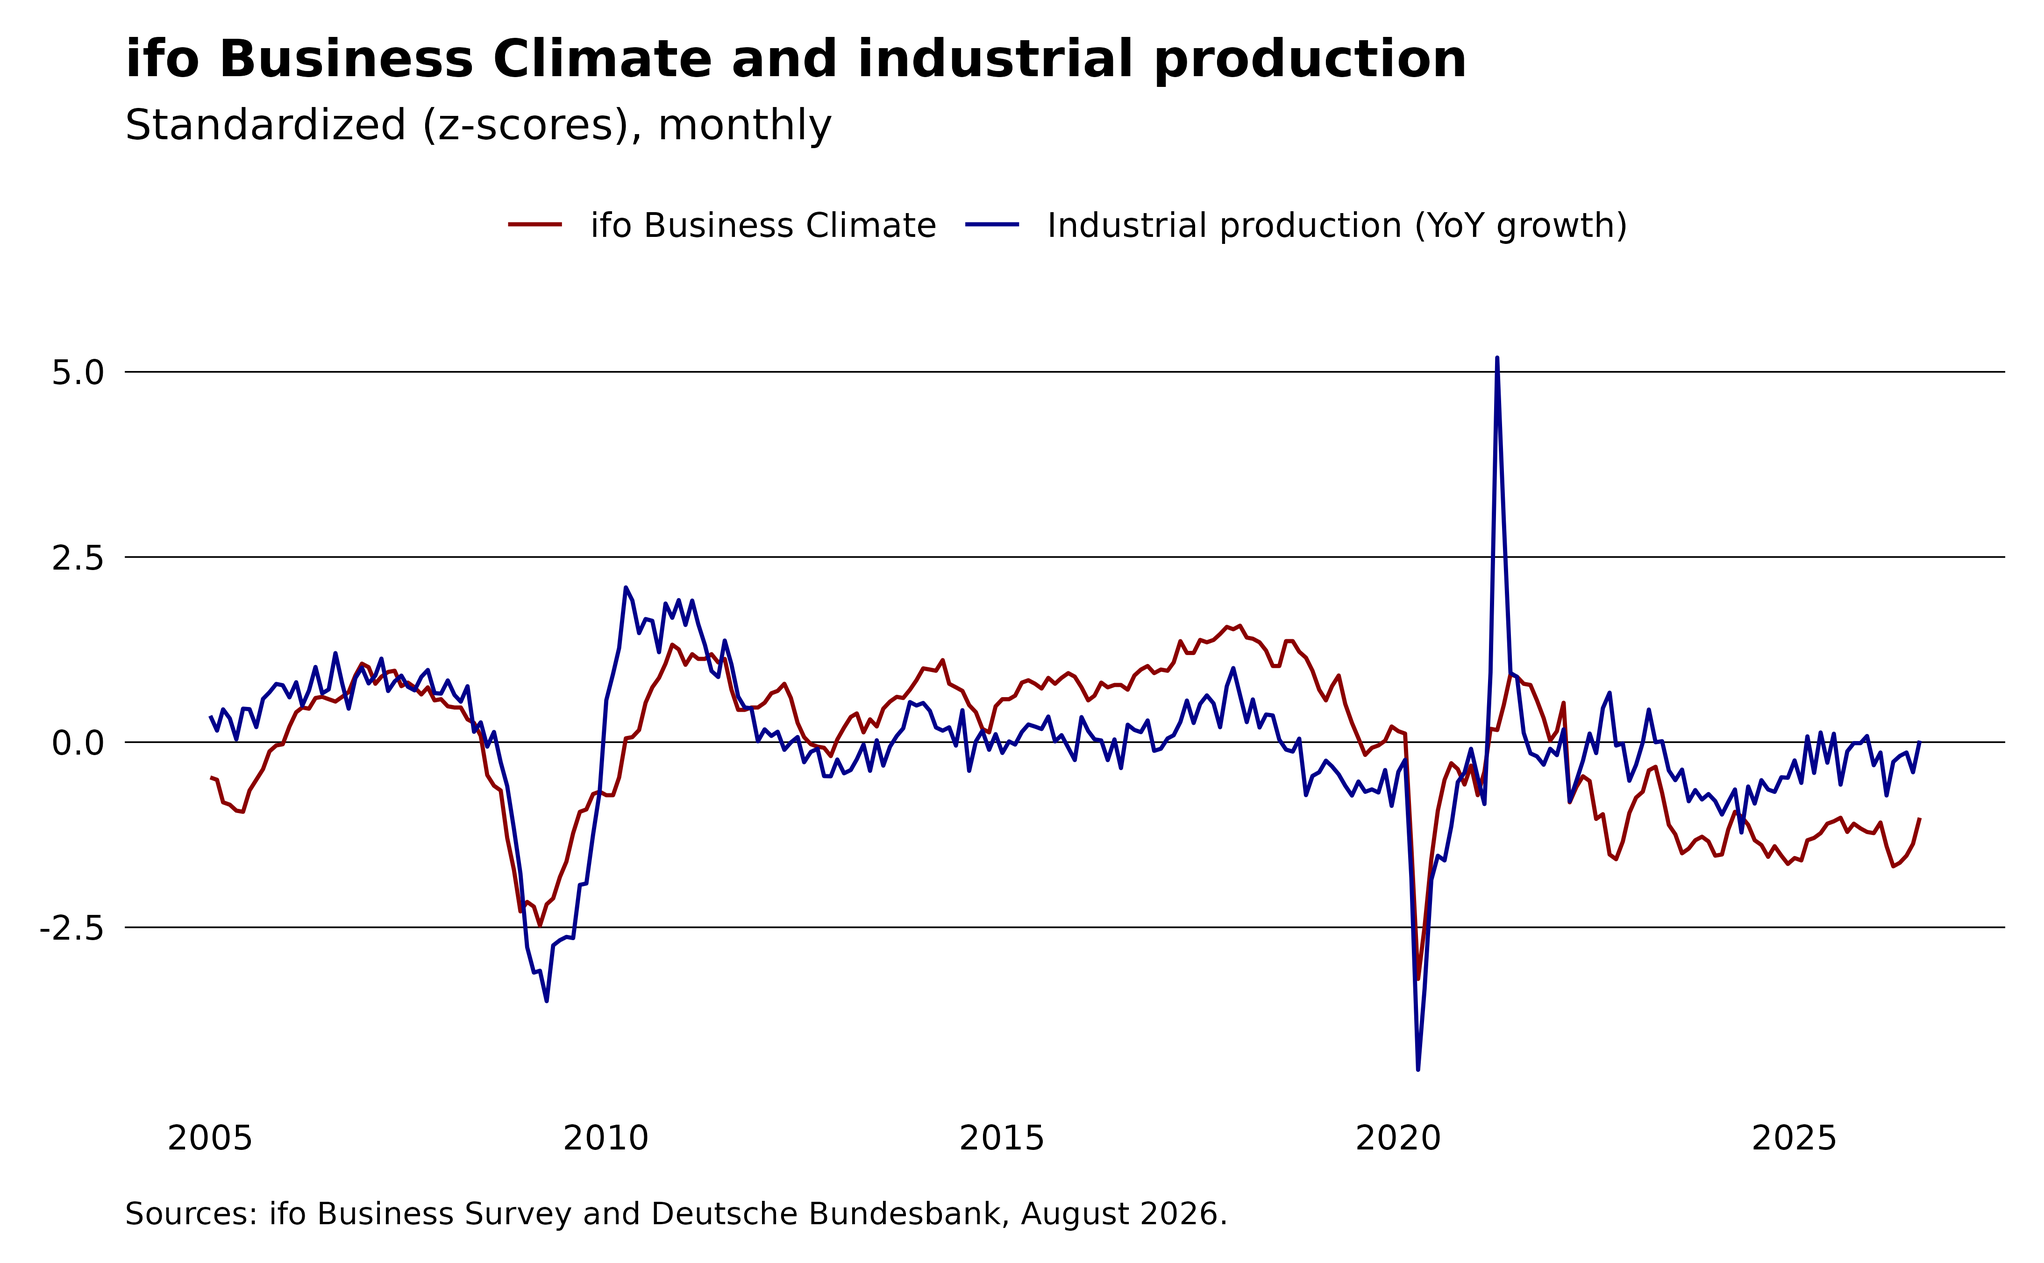
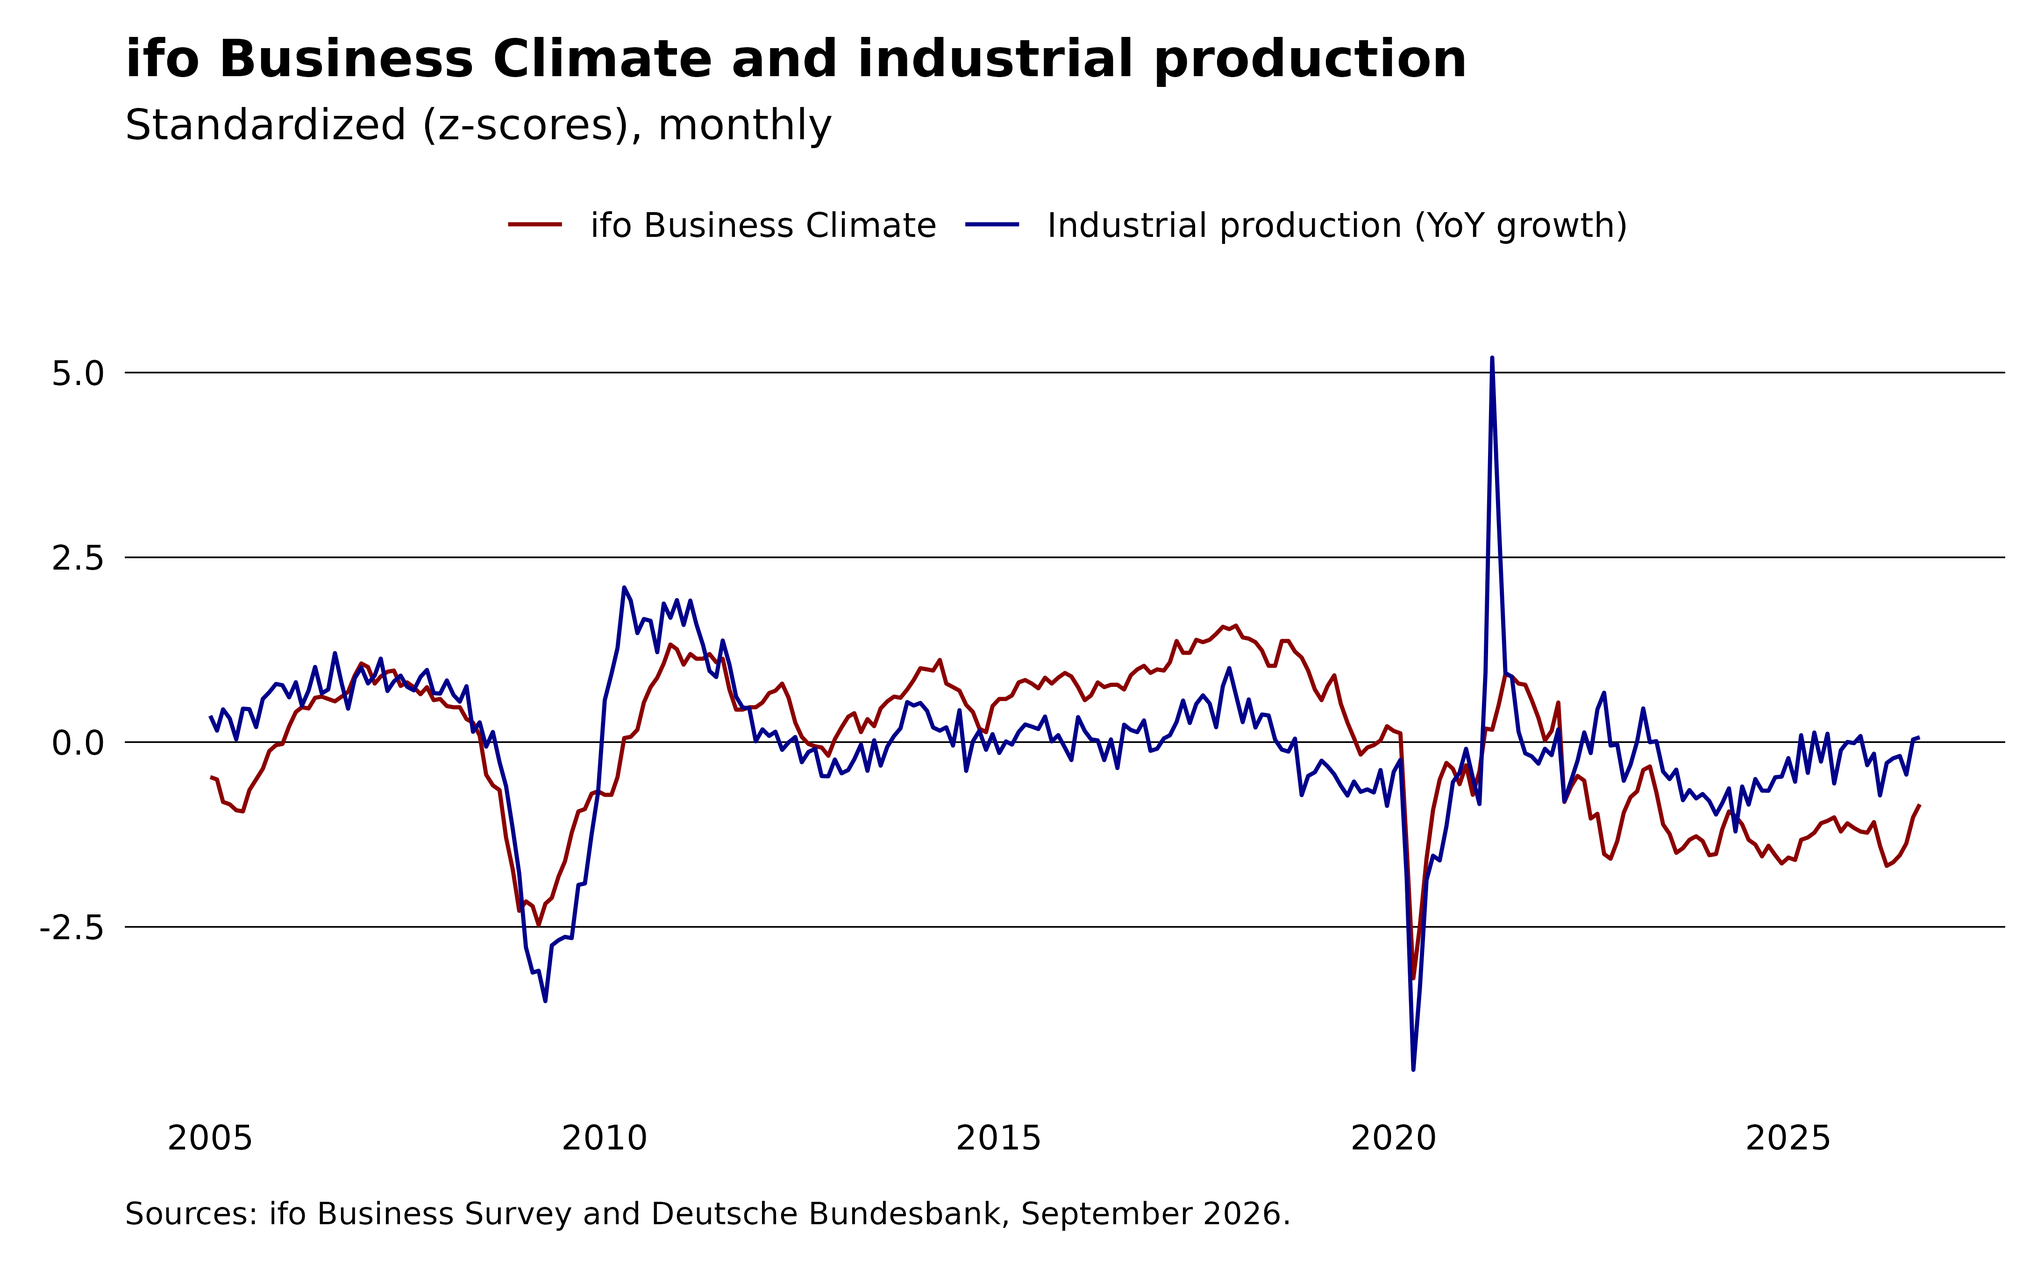
Deploying to gh-pages from @ m-muecke/ifo@dab7446699d8f623ae3c482254d5785b81348a27 🚀

diff --git a/articles/leading-indicator.html b/articles/leading-indicator.html
@@ -156,7 +156,7 @@ Hüfner and Schröder as their measure of economic activity.</p>
 <span><span class="va">activity</span> <span class="op">&lt;-</span> <span class="va">survey</span><span class="op">[</span><span class="va">ip</span>, on <span class="op">=</span> <span class="st">"yearmonth"</span>, nomatch <span class="op">=</span> <span class="fl">0L</span><span class="op">]</span></span></code></pre></div>
 <p>The production series reaches back to 1991, but the ifo index for
 Germany as a whole starts in January 2005, so the overlapping sample
-runs from January 2005 to August 2026 (260 months).</p>
+runs from January 2005 to September 2026 (261 months).</p>
 </div>
 <div class="section level3">
 <h3 id="criterion-1-co-movement">Criterion 1: co-movement<a class="anchor" aria-label="anchor" href="#criterion-1-co-movement"></a>
@@ -189,7 +189,7 @@ times, and the contemporaneous correlation is moderate rather than
 tight:</p>
 <div class="sourceCode" id="cb5"><pre class="downlit sourceCode r">
 <code class="sourceCode R"><span><span class="fu"><a href="https://rdrr.io/r/stats/cor.html" class="external-link">cor</a></span><span class="op">(</span><span class="va">activity</span><span class="op">$</span><span class="va">climate</span>, <span class="va">activity</span><span class="op">$</span><span class="va">ip_growth</span><span class="op">)</span></span>
-<span><span class="co">#&gt; [1] 0.6192757</span></span></code></pre></div>
+<span><span class="co">#&gt; [1] 0.6182059</span></span></code></pre></div>
 <p>To examine the lead-lag structure, we use the cross-correlation
 function. Negative lags describe the ifo index <em>leading</em>
 production growth. We separate the headline climate index into the
@@ -248,11 +248,11 @@ theory suggests:</p>
 <code class="sourceCode R"><span><span class="va">xc</span><span class="op">[</span>, <span class="va">.SD</span><span class="op">[</span><span class="fu"><a href="https://rdrr.io/r/base/which.min.html" class="external-link">which.max</a></span><span class="op">(</span><span class="va">correlation</span><span class="op">)</span><span class="op">]</span>, by <span class="op">=</span> <span class="va">component</span><span class="op">]</span></span>
 <span><span class="co">#&gt;      component   lag correlation</span></span>
 <span><span class="co">#&gt;         &lt;char&gt; &lt;int&gt;       &lt;num&gt;</span></span>
-<span><span class="co">#&gt; 1:   situation     3   0.5681800</span></span>
-<span><span class="co">#&gt; 2: expectation    -1   0.6118295</span></span>
-<span><span class="co">#&gt; 3:     climate     0   0.6192757</span></span></code></pre></div>
+<span><span class="co">#&gt; 1:   situation     2   0.5676193</span></span>
+<span><span class="co">#&gt; 2: expectation    -1   0.6110709</span></span>
+<span><span class="co">#&gt; 3:     climate     0   0.6182059</span></span></code></pre></div>
 <p>The peak correlation occurs at lag -1 for expectations, 0 for the
-climate index, and 3 for the situation assessment. Because negative lags
+climate index, and 2 for the situation assessment. Because negative lags
 indicate a lead over production, only expectations peak ahead of
 production, and the lead is short: the correlation is nearly flat
 between lag -1 and lag 0. A formal test can determine whether the lead
@@ -282,8 +282,8 @@ test results are the same for any order between them.</p>
 <span><span class="co">#&gt; Model 1: ip_growth ~ Lags(ip_growth, 1:3) + Lags(climate, 1:3)</span></span>
 <span><span class="co">#&gt; Model 2: ip_growth ~ Lags(ip_growth, 1:3)</span></span>
 <span><span class="co">#&gt;   Res.Df Df      F    Pr(&gt;F)    </span></span>
-<span><span class="co">#&gt; 1    250                        </span></span>
-<span><span class="co">#&gt; 2    253 -3 7.5172 7.771e-05 ***</span></span>
+<span><span class="co">#&gt; 1    251                        </span></span>
+<span><span class="co">#&gt; 2    254 -3 7.5331 7.597e-05 ***</span></span>
 <span><span class="co">#&gt; ---</span></span>
 <span><span class="co">#&gt; Signif. codes:  0 '***' 0.001 '**' 0.01 '*' 0.05 '.' 0.1 ' ' 1</span></span>
 <span><span class="va">reverse</span></span>
@@ -292,10 +292,10 @@ test results are the same for any order between them.</p>
 <span><span class="co">#&gt; Model 1: climate ~ Lags(climate, 1:3) + Lags(ip_growth, 1:3)</span></span>
 <span><span class="co">#&gt; Model 2: climate ~ Lags(climate, 1:3)</span></span>
 <span><span class="co">#&gt;   Res.Df Df      F Pr(&gt;F)</span></span>
-<span><span class="co">#&gt; 1    250                 </span></span>
-<span><span class="co">#&gt; 2    253 -3 0.3561 0.7847</span></span></code></pre></div>
+<span><span class="co">#&gt; 1    251                 </span></span>
+<span><span class="co">#&gt; 2    254 -3 0.3644 0.7788</span></span></code></pre></div>
 <p>The predictive relationship is one-directional. Lags of the ifo
-climate improve the production model (p = 0.000078), while lags of
+climate improve the production model (p = 0.000076), while lags of
 production do not improve the climate model (p = 0.78).</p>
 <p>Consistent with the cross-correlation, the forward-looking
 expectations component gives a slightly stronger signal than the
@@ -307,8 +307,8 @@ headline climate index.</p>
 <span><span class="co">#&gt; Model 1: ip_growth ~ Lags(ip_growth, 1:3) + Lags(expectation, 1:3)</span></span>
 <span><span class="co">#&gt; Model 2: ip_growth ~ Lags(ip_growth, 1:3)</span></span>
 <span><span class="co">#&gt;   Res.Df Df      F    Pr(&gt;F)    </span></span>
-<span><span class="co">#&gt; 1    250                        </span></span>
-<span><span class="co">#&gt; 2    253 -3 8.4518 2.271e-05 ***</span></span>
+<span><span class="co">#&gt; 1    251                        </span></span>
+<span><span class="co">#&gt; 2    254 -3 8.4985 2.131e-05 ***</span></span>
 <span><span class="co">#&gt; ---</span></span>
 <span><span class="co">#&gt; Signif. codes:  0 '***' 0.001 '**' 0.01 '*' 0.05 '.' 0.1 ' ' 1</span></span></code></pre></div>
 </div>
@@ -347,11 +347,11 @@ accuracy.</p>
 <span><span class="op">)</span></span>
 <span><span class="co">#&gt;          model    adj_r2 rmse_in_sample</span></span>
 <span><span class="co">#&gt;         &lt;char&gt;     &lt;num&gt;          &lt;num&gt;</span></span>
-<span><span class="co">#&gt; 1:       AR(3) 0.7479700       3.442022</span></span>
-<span><span class="co">#&gt; 2: AR(3) + ifo 0.7660495       3.296547</span></span></code></pre></div>
+<span><span class="co">#&gt; 1:       AR(3) 0.7481182       3.433900</span></span>
+<span><span class="co">#&gt; 2: AR(3) + ifo 0.7661618       3.289024</span></span></code></pre></div>
 <p>Adding the climate index raises adjusted R² from 0.748 to 0.766 and
-lowers in-sample RMSE from 3.44 to 3.30. The nested-model F test rejects
-the three climate coefficients being jointly zero (p = 0.000078). This
+lowers in-sample RMSE from 3.43 to 3.29. The nested-model F test rejects
+the three climate coefficients being jointly zero (p = 0.000076). This
 is the same test used in the forward Granger comparison above:</p>
 <div class="sourceCode" id="cb11"><pre class="downlit sourceCode r">
 <code class="sourceCode R"><span><span class="fu"><a href="https://rdrr.io/r/stats/anova.html" class="external-link">anova</a></span><span class="op">(</span><span class="va">fit_ar</span>, <span class="va">fit_ar_ifo</span><span class="op">)</span></span>
@@ -360,8 +360,8 @@ is the same test used in the forward Granger comparison above:</p>
 <span><span class="co">#&gt; Model 1: ip_growth ~ g1 + g2 + g3</span></span>
 <span><span class="co">#&gt; Model 2: ip_growth ~ g1 + g2 + g3 + c1 + c2 + c3</span></span>
 <span><span class="co">#&gt;   Res.Df    RSS Df Sum of Sq      F    Pr(&gt;F)    </span></span>
-<span><span class="co">#&gt; 1    253 3044.8                                  </span></span>
-<span><span class="co">#&gt; 2    250 2792.9  3    251.94 7.5172 7.771e-05 ***</span></span>
+<span><span class="co">#&gt; 1    254 3042.2                                  </span></span>
+<span><span class="co">#&gt; 2    251 2791.0  3    251.29 7.5331 7.597e-05 ***</span></span>
 <span><span class="co">#&gt; ---</span></span>
 <span><span class="co">#&gt; Signif. codes:  0 '***' 0.001 '**' 0.01 '*' 0.05 '.' 0.1 ' ' 1</span></span></code></pre></div>
 </div>
@@ -484,19 +484,19 @@ monthly and predict the next observation.</p>
 <span><span class="co">#&gt;                        &lt;char&gt;         &lt;char&gt;  &lt;int&gt; &lt;num&gt;               &lt;num&gt;</span></span>
 <span><span class="co">#&gt; 1:                      AR(3)         levels    117  4.83                 0.0</span></span>
 <span><span class="co">#&gt; 2:            Germany climate         levels    117  4.80                 0.5</span></span>
-<span><span class="co">#&gt; 3:            Germany climate    differences    117  4.56                 5.5</span></span>
+<span><span class="co">#&gt; 3:            Germany climate    differences    117  4.56                 5.4</span></span>
 <span><span class="co">#&gt; 4:          Germany situation         levels    117  4.88                -1.0</span></span>
 <span><span class="co">#&gt; 5:       Germany expectations         levels    117  4.79                 0.9</span></span>
 <span><span class="co">#&gt; 6:       Germany expectations    differences    117  4.68                 3.0</span></span>
-<span><span class="co">#&gt; 7: Manufacturing expectations         levels    117  4.58                 5.2</span></span></code></pre></div>
+<span><span class="co">#&gt; 7: Manufacturing expectations         levels    117  4.58                 5.1</span></span></code></pre></div>
 <p>Across 117 forecasts, the survey series in levels repeat the ranking
 from the lead-lag analysis. Germany-wide expectations lower RMSE by 0.9%
 relative to the AR benchmark and the climate balance by 0.5%, while the
 situation balance offers no improvement (-1%). Manufacturing
-expectations lower RMSE by 5.2%, so the closer sectoral match appears to
+expectations lower RMSE by 5.1%, so the closer sectoral match appears to
 matter. Matching the transformation changes this picture. As
 twelve-month differences, the Germany-wide climate balance lowers RMSE
-by 5.5%, on par with manufacturing expectations in levels at 5.2%.
+by 5.4%, on par with manufacturing expectations in levels at 5.1%.
 Germany-wide expectations improve to 3%. The differenced headline series
 therefore produces a similar full-sample RMSE improvement to
 manufacturing expectations. This remains a pseudo-out-of-sample exercise
@@ -540,10 +540,10 @@ survey model improve on the benchmark?</p>
 <span><span class="co">#&gt;                         model transformation cw_statistic p_value</span></span>
 <span><span class="co">#&gt;                        &lt;char&gt;         &lt;char&gt;        &lt;num&gt;   &lt;num&gt;</span></span>
 <span><span class="co">#&gt; 1:            Germany climate         levels         0.98    0.16</span></span>
-<span><span class="co">#&gt; 2:            Germany climate    differences         2.05    0.02</span></span>
+<span><span class="co">#&gt; 2:            Germany climate    differences         2.03    0.02</span></span>
 <span><span class="co">#&gt; 3:          Germany situation         levels         0.53    0.30</span></span>
 <span><span class="co">#&gt; 4:       Germany expectations         levels         1.28    0.10</span></span>
-<span><span class="co">#&gt; 5:       Germany expectations    differences         1.68    0.05</span></span>
+<span><span class="co">#&gt; 5:       Germany expectations    differences         1.67    0.05</span></span>
 <span><span class="co">#&gt; 6: Manufacturing expectations         levels         1.90    0.03</span></span></code></pre></div>
 <p>In levels, only manufacturing expectations clear the 5% level (p =
 0.03). Germany-wide expectations are borderline (p = 0.10), and the

diff --git a/articles/leading-indicator.md b/articles/leading-indicator.md
@@ -92,7 +92,7 @@ activity <- survey[ip, on = "yearmonth", nomatch = 0L]
 
 The production series reaches back to 1991, but the ifo index for
 Germany as a whole starts in January 2005, so the overlapping sample
-runs from January 2005 to August 2026 (260 months).
+runs from January 2005 to September 2026 (261 months).
 
 ### Criterion 1: co-movement
 
@@ -130,7 +130,7 @@ and the contemporaneous correlation is moderate rather than tight:
 ``` r
 
 cor(activity$climate, activity$ip_growth)
-#> [1] 0.6192757
+#> [1] 0.6182059
 ```
 
 To examine the lead-lag structure, we use the cross-correlation
@@ -197,13 +197,13 @@ theory suggests:
 xc[, .SD[which.max(correlation)], by = component]
 #>      component   lag correlation
 #>         <char> <int>       <num>
-#> 1:   situation     3   0.5681800
-#> 2: expectation    -1   0.6118295
-#> 3:     climate     0   0.6192757
+#> 1:   situation     2   0.5676193
+#> 2: expectation    -1   0.6110709
+#> 3:     climate     0   0.6182059
 ```
 
 The peak correlation occurs at lag -1 for expectations, 0 for the
-climate index, and 3 for the situation assessment. Because negative lags
+climate index, and 2 for the situation assessment. Because negative lags
 indicate a lead over production, only expectations peak ahead of
 production, and the lead is short: the correlation is nearly flat
 between lag -1 and lag 0. A formal test can determine whether the lead
@@ -235,8 +235,8 @@ forward
 #> Model 1: ip_growth ~ Lags(ip_growth, 1:3) + Lags(climate, 1:3)
 #> Model 2: ip_growth ~ Lags(ip_growth, 1:3)
 #>   Res.Df Df      F    Pr(>F)    
-#> 1    250                        
-#> 2    253 -3 7.5172 7.771e-05 ***
+#> 1    251                        
+#> 2    254 -3 7.5331 7.597e-05 ***
 #> ---
 #> Signif. codes:  0 '***' 0.001 '**' 0.01 '*' 0.05 '.' 0.1 ' ' 1
 reverse
@@ -245,12 +245,12 @@ reverse
 #> Model 1: climate ~ Lags(climate, 1:3) + Lags(ip_growth, 1:3)
 #> Model 2: climate ~ Lags(climate, 1:3)
 #>   Res.Df Df      F Pr(>F)
-#> 1    250                 
-#> 2    253 -3 0.3561 0.7847
+#> 1    251                 
+#> 2    254 -3 0.3644 0.7788
 ```
 
 The predictive relationship is one-directional. Lags of the ifo climate
-improve the production model (p = 0.000078), while lags of production do
+improve the production model (p = 0.000076), while lags of production do
 not improve the climate model (p = 0.78).
 
 Consistent with the cross-correlation, the forward-looking expectations
@@ -265,8 +265,8 @@ lmtest::grangertest(ip_growth ~ expectation, order = 3L, data = activity)
 #> Model 1: ip_growth ~ Lags(ip_growth, 1:3) + Lags(expectation, 1:3)
 #> Model 2: ip_growth ~ Lags(ip_growth, 1:3)
 #>   Res.Df Df      F    Pr(>F)    
-#> 1    250                        
-#> 2    253 -3 8.4518 2.271e-05 ***
+#> 1    251                        
+#> 2    254 -3 8.4985 2.131e-05 ***
 #> ---
 #> Signif. codes:  0 '***' 0.001 '**' 0.01 '*' 0.05 '.' 0.1 ' ' 1
 ```
@@ -307,13 +307,13 @@ data.table(
 )
 #>          model    adj_r2 rmse_in_sample
 #>         <char>     <num>          <num>
-#> 1:       AR(3) 0.7479700       3.442022
-#> 2: AR(3) + ifo 0.7660495       3.296547
+#> 1:       AR(3) 0.7481182       3.433900
+#> 2: AR(3) + ifo 0.7661618       3.289024
 ```
 
 Adding the climate index raises adjusted R² from 0.748 to 0.766 and
-lowers in-sample RMSE from 3.44 to 3.30. The nested-model F test rejects
-the three climate coefficients being jointly zero (p = 0.000078). This
+lowers in-sample RMSE from 3.43 to 3.29. The nested-model F test rejects
+the three climate coefficients being jointly zero (p = 0.000076). This
 is the same test used in the forward Granger comparison above:
 
 ``` r
@@ -324,8 +324,8 @@ anova(fit_ar, fit_ar_ifo)
 #> Model 1: ip_growth ~ g1 + g2 + g3
 #> Model 2: ip_growth ~ g1 + g2 + g3 + c1 + c2 + c3
 #>   Res.Df    RSS Df Sum of Sq      F    Pr(>F)    
-#> 1    253 3044.8                                  
-#> 2    250 2792.9  3    251.94 7.5172 7.771e-05 ***
+#> 1    254 3042.2                                  
+#> 2    251 2791.0  3    251.29 7.5331 7.597e-05 ***
 #> ---
 #> Signif. codes:  0 '***' 0.001 '**' 0.01 '*' 0.05 '.' 0.1 ' ' 1
 ```
@@ -451,21 +451,21 @@ forecast_scores[]
 #>                        <char>         <char>  <int> <num>               <num>
 #> 1:                      AR(3)         levels    117  4.83                 0.0
 #> 2:            Germany climate         levels    117  4.80                 0.5
-#> 3:            Germany climate    differences    117  4.56                 5.5
+#> 3:            Germany climate    differences    117  4.56                 5.4
 #> 4:          Germany situation         levels    117  4.88                -1.0
 #> 5:       Germany expectations         levels    117  4.79                 0.9
 #> 6:       Germany expectations    differences    117  4.68                 3.0
-#> 7: Manufacturing expectations         levels    117  4.58                 5.2
+#> 7: Manufacturing expectations         levels    117  4.58                 5.1
 ```
 
 Across 117 forecasts, the survey series in levels repeat the ranking
 from the lead-lag analysis. Germany-wide expectations lower RMSE by 0.9%
 relative to the AR benchmark and the climate balance by 0.5%, while the
 situation balance offers no improvement (-1%). Manufacturing
-expectations lower RMSE by 5.2%, so the closer sectoral match appears to
+expectations lower RMSE by 5.1%, so the closer sectoral match appears to
 matter. Matching the transformation changes this picture. As
 twelve-month differences, the Germany-wide climate balance lowers RMSE
-by 5.5%, on par with manufacturing expectations in levels at 5.2%.
+by 5.4%, on par with manufacturing expectations in levels at 5.1%.
 Germany-wide expectations improve to 3%. The differenced headline series
 therefore produces a similar full-sample RMSE improvement to
 manufacturing expectations. This remains a pseudo-out-of-sample exercise
@@ -513,10 +513,10 @@ cw_scores[, .(
 #>                         model transformation cw_statistic p_value
 #>                        <char>         <char>        <num>   <num>
 #> 1:            Germany climate         levels         0.98    0.16
-#> 2:            Germany climate    differences         2.05    0.02
+#> 2:            Germany climate    differences         2.03    0.02
 #> 3:          Germany situation         levels         0.53    0.30
 #> 4:       Germany expectations         levels         1.28    0.10
-#> 5:       Germany expectations    differences         1.68    0.05
+#> 5:       Germany expectations    differences         1.67    0.05
 #> 6: Manufacturing expectations         levels         1.90    0.03
 ```
 
